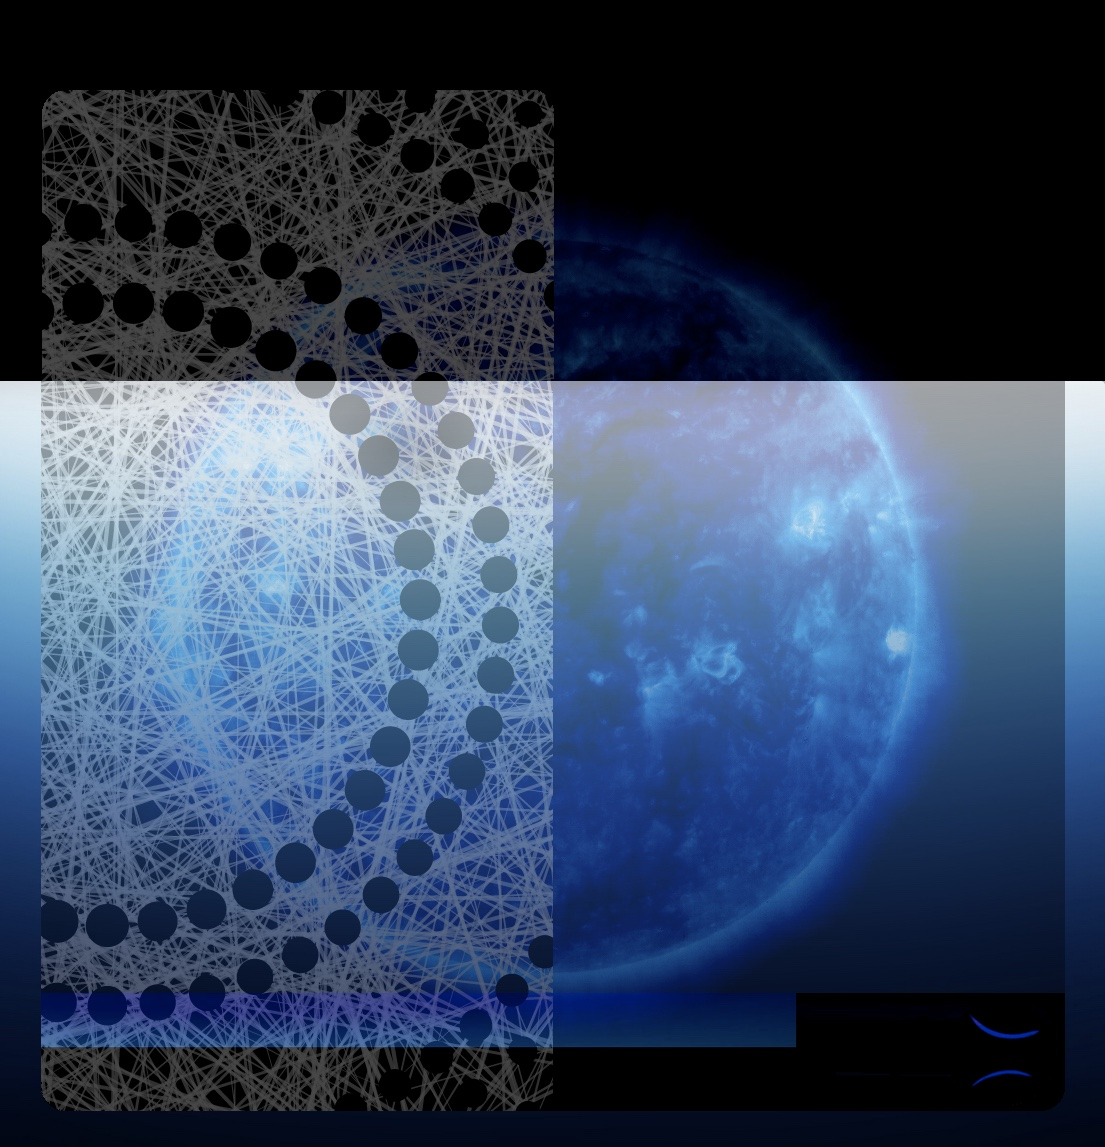
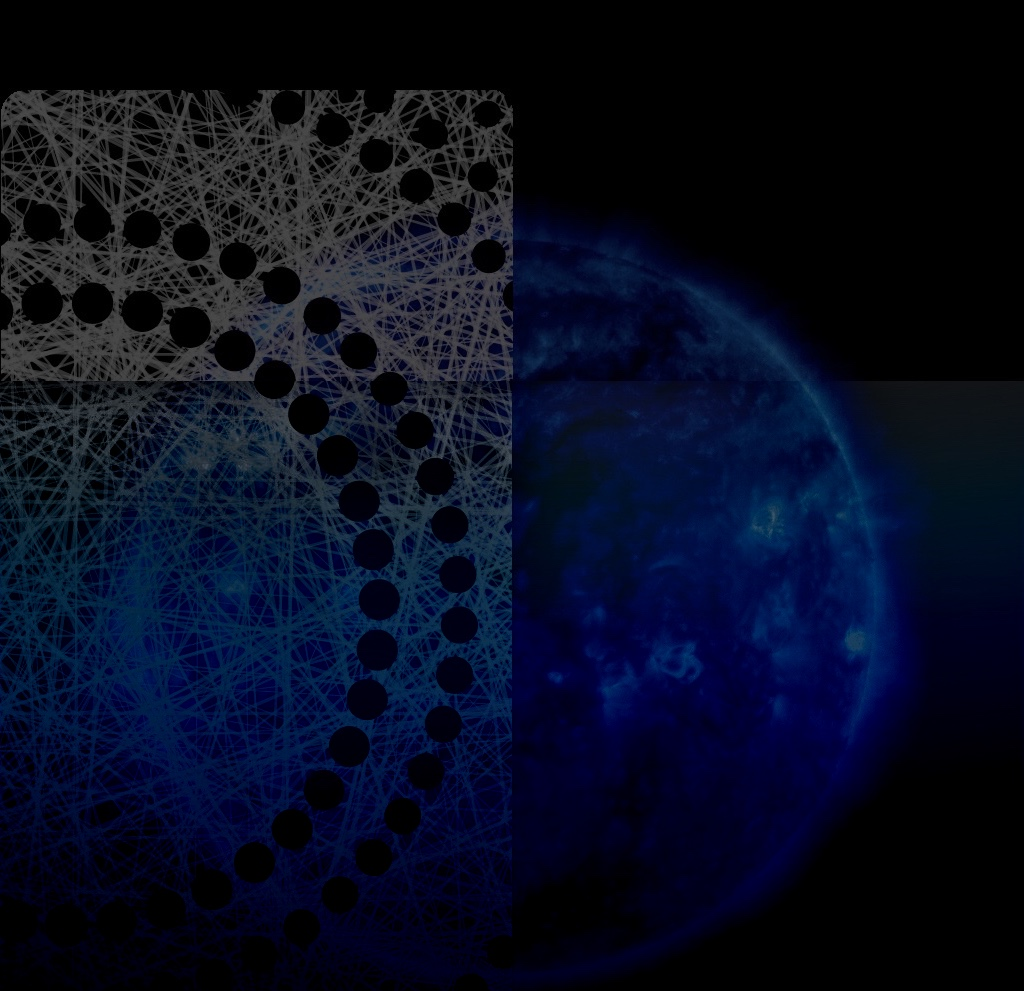
Design + Texts
sol.jpg n-th version, more-info.html

diff --git a/univers/more-info.html b/univers/more-info.html
@@ -69,7 +69,7 @@
           </button>
 
           <div class="collapse navbar-collapse" id="navbar-collapse">
-            <ul class="nav navbar-nav" style="background-color: black;border-radius:0px 30px 30px 0px;border-top: 2px solid white;">
+            <ul class="nav navbar-nav">
               <li><a class="logo" href="./index.html" title=""></a></li>
               <li><a href="./works.html" title="">02 : Works</a></li>
               <li><a href="./about.html" title="">03 : About me</a></li>
@@ -81,9 +81,9 @@
       </nav>
     </header>
     <!-- Add your site or app content here -->
-    <div
+    <div id="bodyel"
       class="hero-full-container background-image-container white-text-container"
-      style="background-image: url('./assets/images/space2.jpg');"
+      style="background-image: url('./assets/images/space2.jpg');opacity:0;"
     >
       <div class="container">
         <div class="row">
@@ -92,7 +92,7 @@
 
               <div class="wrapper">
 
-                <div id="headerel" class="clip-text2 clip-text_one first_hidden">&nbsp;&nbsp;&nbsp;&nbsp;d</div> 
+                <div id="headerel" class="clip-text2 clip-text_one first_hidden">&nbsp;&nbsp;&nbsp;&nbsp;</div> 
               
               </div>
 
@@ -100,7 +100,7 @@
 
               <div class="wrapper">
 
-                <div id="title1el" class="clip-text3 clip-text_one ">Who we are?</div>
+                <div id="title1el" class="clip-text3 clip-text_one">Who are we?</div>
 
               </div>
 
@@ -120,6 +120,9 @@
                     We love how active the development of Cardano is and this is our first step into the ecosystem.
                   </div>
 
+
+								<a id="scrolldown1el" href="" class="btn btn-primary btn-lg btn-scrolldown first_hidden">MORE <br>▼</a>
+
                 </div>
 
               </div>
@@ -129,16 +132,46 @@
           </div>
         </div>
       </div>
-      <div class="section-container moreinfo_sol">
-        <!--<div class="tornpaper"><img src="./assets/images/tornpaper77x77.png" width="77" height="77"/></div>-->
+      <div id="moreinfo_solel" class="section-container moreinfo_sol">
         <div class="container ">
           <div class="row">
             <div class="col-sm-8 col-sm-offset-2 section-container-spacer">
-              <div class="text-center">
-                <h1 class="h2">02 : Works</h1>
-                <p>Nulla facilisi. Vivamus vestibulum, elit in scelerisque ultricies, nisl nunc pulvinar ligula, id sodales arcu sapien in nisi. Quisque libero enim, mattis non augue posuere, venenatis dapibus urna.</p>
+
+              <div class="wrapper">
+
+                <div id="title2el" class="clip-text4 clip-text_one">Why Cardano?</div>
+
               </div>
-            </div>
+
+              <div class="text-center">
+                
+                <div class="moreinfo_who_text2">
+                  Cardano was easy choice once we decided to work full time for a cryptocurrency.
+                  However we also want to join the community because there is so much code which needs to be created here.
+                  Not like Bitcoin where there is so much “noise”, “maximalism” and toxicity in general.
+                  We still love Bitcoin though, he is the king because Bitcoin in general is the first “digital gold” ever created.
+                  It’s code is stored unbelievable securely “written in the stone” for more than 1000yrs which proves how important Bitcoin is.
+                  It’s really incredible human achievement, probably as incredible as the Internet itself.
+                  The Blockchain (the ledger ) is in wat “written in stone” too, because it is permanent and cannot be changed thanks to Bitcoin’s protocol design, mining and nodes running around the world 24/7.
+                  No government or agency can turn it off.
+                  It’s inflation by mining is steady and almost everything what was promised was already achieved.
+                  Maybe only things what Bitcoin ecosystem miss are.
+                  True decentralization and true scaling – we believe that the Cardano will deliver both!
+                </div>
+
+                <div class="wrapper" style="padding:10px 10px 10px 10px;">
+
+                  <a id="more_blogel" href="" class="btn btn-primary btn-lg btn-more_blog">MORE INFO</a>
+
+                  <a id="more_blogel" href="" class="btn btn-primary btn-lg btn-more_contact">CONTACT</a>
+                
+                  <a id="more_poolel" href="" class="btn btn-primary btn-lg btn-more_pool">&nbsp;&nbsp;STAKING POOL&nbsp; ➠</a>
+  
+  
+                </div>
+             
+              </div>
+            </div> 
     </div>
 
     <script type="text/javascript">
@@ -182,28 +215,36 @@
           movingBackgroundImage();
 
           var headerEl = document.getElementById('headerel');
+
+          var bodyEl = document.getElementById('bodyel');
+
           var title1El = document.getElementById('title1el');
           var text1El = document.getElementById('text1el');
-          var cardanologoEl = document.getElementById('cardanologoel');
-        
+          var scrolldown1El = document.getElementById('scrolldown1el');
+          var moreinfo_solEl = document.getElementById('moreinfo_solel');
 
-          fadeIn(headerEl,5,function() {
+          fadeIn(bodyEl,5,function() {
 
-            fadeIn(title1El,5,function() {
+            fadeIn(headerEl,5,function() {
 
-              fadeIn(text1El,5,function() {
+              fadeIn(title1El,5,function() {
 
-                type();
+                fadeIn(text1El,5,function() {
 
-                fadeIn(cardanologoEl,10,function() {
+                  fadeIn(scrolldown1El,5,function() {
 
-                  // console.log("done animating");
+                    fadeIn(moreinfo_solEl,5,function() {
+
+              
+
+                    });
+
+                  });
 
                 });
 
               });
-
-            });
+          });
 
           });
 

diff --git a/univers/main.3f6952e4.css b/univers/main.3f6952e4.css
@@ -2764,6 +2764,8 @@ fieldset[disabled] .btn-link:hover {
 	font-weight:bold;
 }
 .btn-more {
+  border:2px solid rgba(0, 0, 0, .77);
+  border-radius: 15px 15px 15px 15px;
   z-index: 5;
   position: absolute;
 	font-size: 22px !important;
@@ -2772,14 +2774,87 @@ fieldset[disabled] .btn-link:hover {
 	font-weight: 600 !important;
   color:white !important;
   padding-top: 3px !important;
-  width: 216px;
+  width: 219px;
   height: 40px;
-  transition: 0.1111s; 
+  transition: 0.2111s; 
   text-shadow: 0 1px 0 black, 0 2px 0 black, 0 3px 0 black,  4px 0 black, 0 5px 0 black, 0 4px 1px rgba(0,0,0,.4), 0 0 3px rgba(0,0,0,.4), 0 1px 3px rgba(0,0,0,.4), 0 3px 4px rgba(0,0,0,.4), 5px 7px rgba(0,0,0,.35), 0 10px 10px rgba(0,0,0,.63), 0 15px 15px rgba(0,0,0,.31);
 }
 .btn-more:hover {
 	-webkit-text-stroke-width: 1px;
   -webkit-text-stroke-color: white;
+}
+.btn-scrolldown {
+  opacity: 0;
+  border:2px solid rgba(0, 0, 0, .77);
+  margin-top:33px;
+  z-index: 5;
+	font-size: 22px !important;
+	font-weight: 600 !important;
+  color:white !important;
+  padding-top: 3px !important;
+  width: 116px;
+  height: 60px;
+  transition: 0.1111s;
+  background-color: black;
+  border-radius: 15px 15px 15px 15px;
+  background-position: 50% 0%;
+  text-shadow: 0 1px 0 black, 0 2px 0 black, 0 3px 0 black,  4px 0 black, 0 5px 0 black, 0 4px 1px rgba(0,0,0,.4), 0 0 3px rgba(0,0,0,.4), 0 1px 3px rgba(0,0,0,.4), 0 3px 4px rgba(0,0,0,.4), 5px 7px rgba(0,0,0,.35), 0 10px 10px rgba(0,0,0,.63), 0 15px 15px rgba(0,0,0,.31);
+}
+
+.btn-scrolldown:hover { 
+  background-position: 50% 51%;
+}
+
+.btn-more_contact {
+  margin-left:23px;
+  margin-right:23px;
+  opacity: 1;
+  border:2px solid rgba(0, 0, 0, .77);
+  float:left;
+  z-index: 5;
+	font-size: 22px !important;
+	font-weight: 600 !important;
+  color:white !important;
+  width: 155px;
+  height: 51px;
+  transition: 0.1111s;
+  background-color: black;
+  border-radius: 15px 15px 15px 15px;
+  background-position: 50% 0%;
+  text-shadow: 0 1px 0 black, 0 2px 0 black, 0 3px 0 black,  4px 0 black, 0 5px 0 black, 0 4px 1px rgba(0,0,0,.4), 0 0 3px rgba(0,0,0,.4), 0 1px 3px rgba(0,0,0,.4), 0 3px 4px rgba(0,0,0,.4), 5px 7px rgba(0,0,0,.35), 0 10px 10px rgba(0,0,0,.63), 0 15px 15px rgba(0,0,0,.31);
+}
+.btn-more_blog {
+  margin-left:33px;
+  opacity: 1;
+  border:2px solid rgba(0, 0, 0, .77);
+  float:left;
+  z-index: 5;
+	font-size: 22px !important;
+	font-weight: 600 !important;
+  color:white !important;
+  width: 255px;
+  height: 51px;
+  transition: 0.1111s;
+  background-color: black;
+  border-radius: 15px 15px 15px 15px;
+  background-position: 50% 0%;
+  text-shadow: 0 1px 0 black, 0 2px 0 black, 0 3px 0 black,  4px 0 black, 0 5px 0 black, 0 4px 1px rgba(0,0,0,.4), 0 0 3px rgba(0,0,0,.4), 0 1px 3px rgba(0,0,0,.4), 0 3px 4px rgba(0,0,0,.4), 5px 7px rgba(0,0,0,.35), 0 10px 10px rgba(0,0,0,.63), 0 15px 15px rgba(0,0,0,.31);
+}
+.btn-more_pool {
+  opacity: 1;
+  border:2px solid rgba(0, 0, 0, .77);
+  float:left;
+  z-index: 5;
+	font-size: 22px !important;
+	font-weight: 600 !important;
+  color:white !important;
+  width: 215px;
+  height: 51px;
+  transition: 0.1111s;
+  background-color: black;
+  border-radius: 15px 15px 15px 15px;
+  background-position: 50% 0%;
+  text-shadow: 0 1px 0 black, 0 2px 0 black, 0 3px 0 black,  4px 0 black, 0 5px 0 black, 0 4px 1px rgba(0,0,0,.4), 0 0 3px rgba(0,0,0,.4), 0 1px 3px rgba(0,0,0,.4), 0 3px 4px rgba(0,0,0,.4), 5px 7px rgba(0,0,0,.35), 0 10px 10px rgba(0,0,0,.63), 0 15px 15px rgba(0,0,0,.31);
 }
 .more_hover {
   -webkit-text-stroke-width: 1px;
@@ -3644,6 +3719,9 @@ tbody.collapse.in {
 }
 .navbar-nav {
   margin: 0.25px -15px;
+  background-color: black;
+  border-radius: 0px 30px 30px 0px;
+  border-top: 2px solid white;
 }
 .navbar-nav > li > a {
   padding-top: 10px;
@@ -5306,10 +5384,30 @@ clip-text2 {
   -webkit-text-fill-color: transparent;
   -webkit-text-stroke-width: 1px;
   -webkit-text-stroke-color: #34b3e9;
-	cursor: pointer;
   transition: 0.1111s; 
   background-position: center;
   opacity: 0;
+}
+
+.clip-text4 {
+  /*font-family: "Oswald", sans-serif;*/
+  font-size: 4.4em;
+  font-weight: bold;
+  line-height: 1; 
+  position: relative;
+  display: inline-block;
+  margin: 0.225em;
+  padding: 0.5em 0.75em;
+  text-align: center;
+	margin-top: 60px;
+  /* Color fallback */
+  color: #fff;
+  -webkit-background-clip: text;
+  -webkit-text-fill-color: transparent;
+  -webkit-text-stroke-width: 1px;
+  -webkit-text-stroke-color: #34b3e9;
+  transition: 0.1111s; 
+  background-position: center;
 }
 
 .clip-text:before,
@@ -5484,17 +5582,37 @@ moreinfo_who {
   text-shadow: 0 1px 0 black, 0 2px 0 black, 0 2px 0 black,  0 4px 1px rgba(0,0,0,.4), 0 0 3px rgba(0,0,0,.4);
   opacity: 0;
   display: block;
-  background-color: rgba(0, 0, 0, .33);
+  background-color: rgba(0, 0, 0, .55);
   padding:33px 33px 33px 33px;
-  border-radius: 10px;
+  border-radius: 25px;
   border-radius: 10px 15px 15px 10px;
   z-index: 5;
   margin-top:33px;
+  border:7px solid rgba(0, 0, 0, .77);
+}
+
+.moreinfo_who_text2 {
+  font-size: 1.77em;
+  color:white;
+  font-weight: 300;
+  line-height: 1.9;
+  text-shadow: 0 1px 0 black, 0 2px 0 black, 0 2px 0 black,  0 4px 1px rgba(0,0,0,.4), 0 0 3px rgba(0,0,0,.4);
+  display: block;
+  background-color: rgba(0, 0, 0, .55);
+  padding:33px 33px 33px 33px;
+  border-radius: 25px;
+  border-radius: 10px 15px 15px 10px;
+  z-index: 5;
+  margin-top:33px;
+  border:7px solid rgba(0, 0, 0, 1);
+  /* width:106%; */
+  opacity: 1;
 }
 
 .moreinfo_sol {
 	background-image: url(./assets/images/sol.jpg);
   background-repeat: no-repeat;
+  opacity: 0;
   /* background-size: 100% auto;
 	z-index: 4; */
 }
